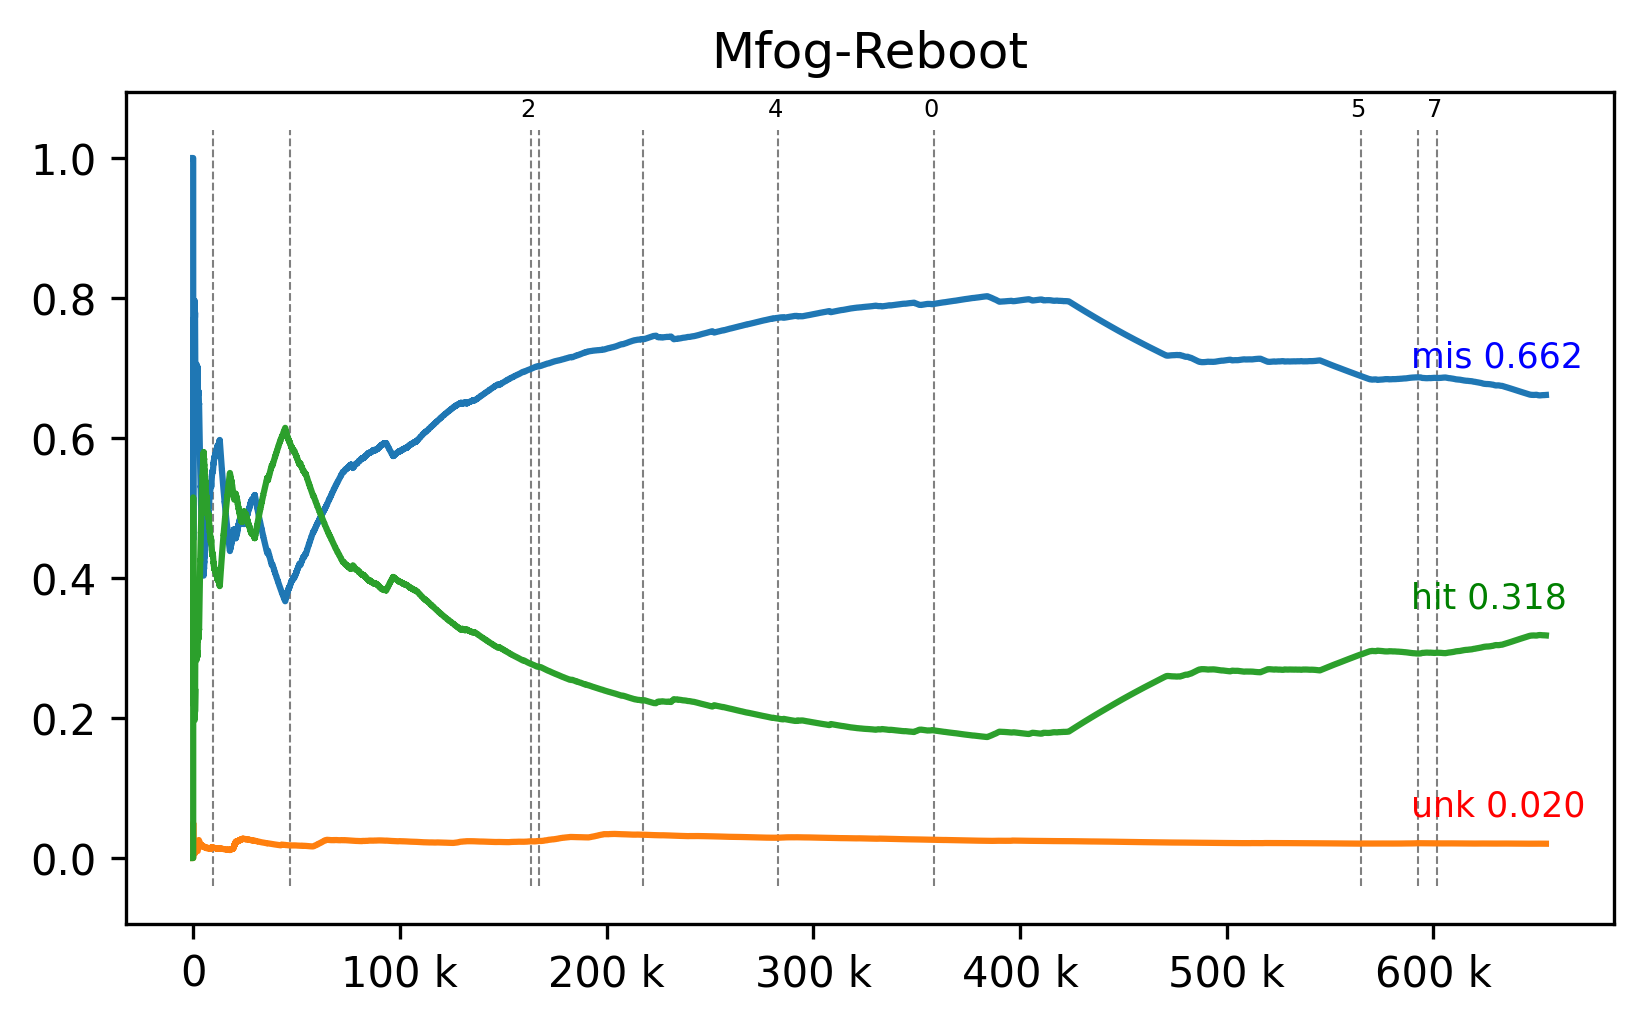
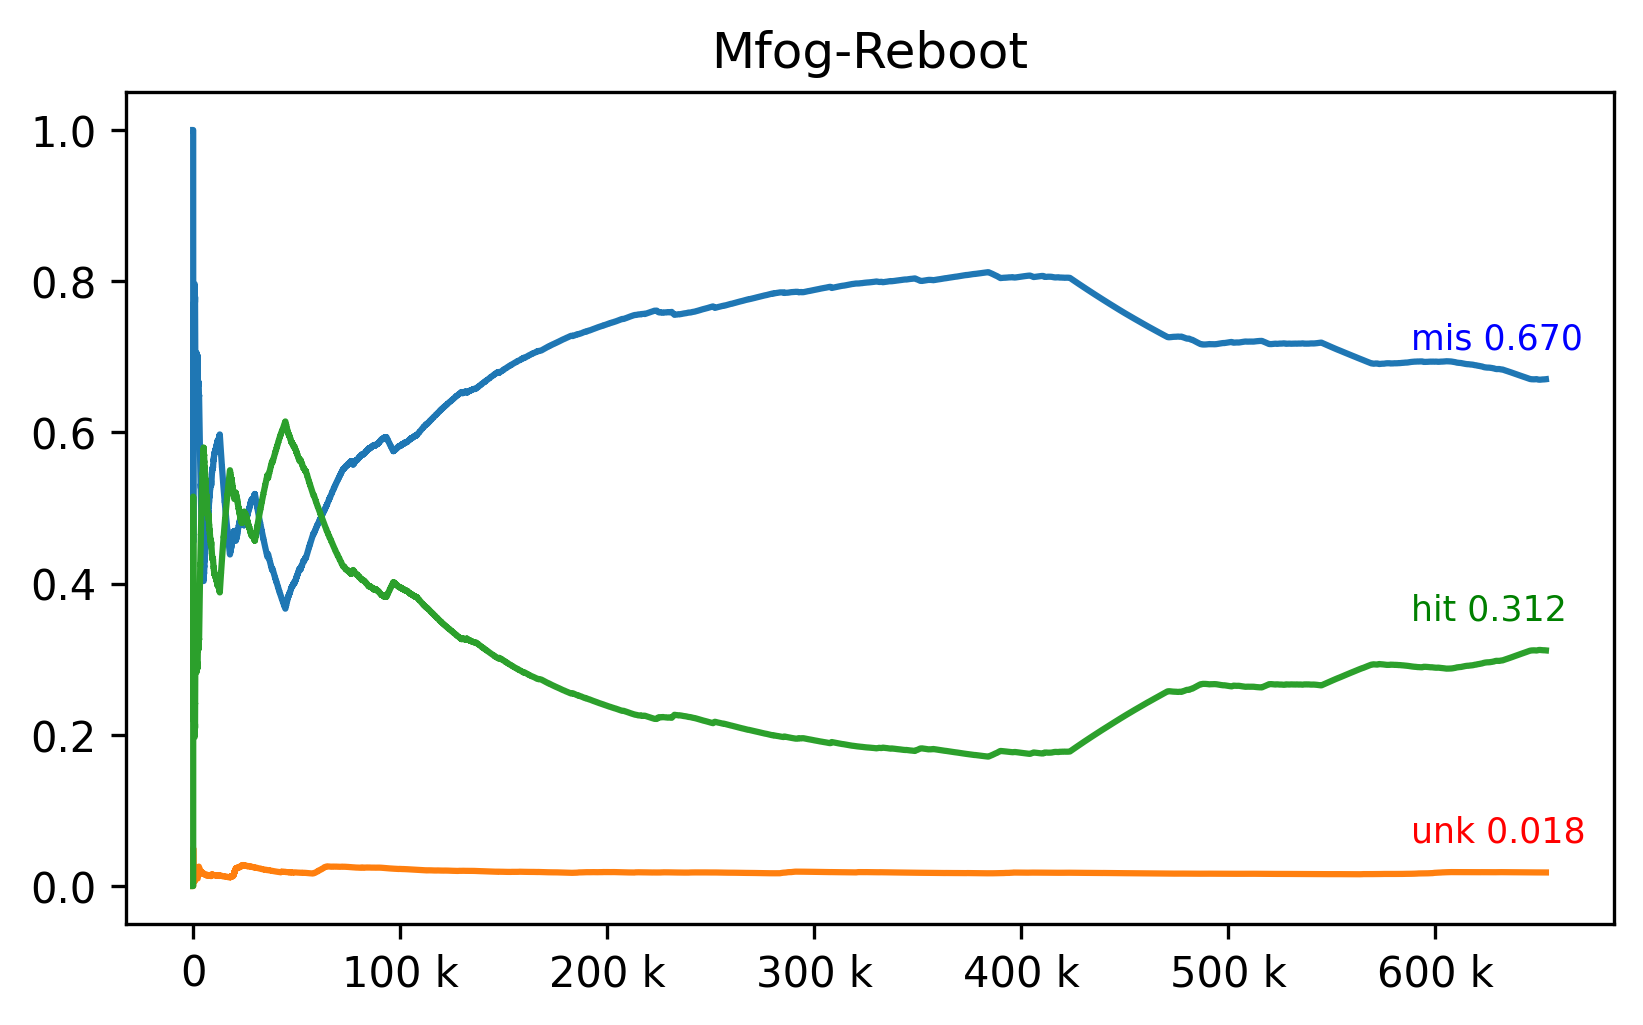
Reboot, online sans ND.

diff --git a/src/reboot/online.c b/src/reboot/online.c
@@ -1,0 +1,112 @@
+#define _GNU_SOURCE
+#include <stdio.h>
+#include <stdlib.h>
+#include <string.h>
+#include <err.h>
+#include <math.h>
+#include <time.h>
+#include <ctype.h>
+#include <mpi.h>
+
+#include "./base.h"
+
+int main(int argc, char const *argv[]) {
+    int kParam = 100, dim = 22, minExamplesPerCluster = 20;
+    double precision = 1.0e-08, radiusF = 0.10, noveltyF = 2.0;
+    //
+    kParam=100; dim=22; precision=1.0e-08; radiusF=0.25; minExamplesPerCluster=20; noveltyF=1.4;
+    // kParam=100; dim=22; precision=1.0e-08; radiusF=0.10; minExamplesPerCluster=20; noveltyF=2.0;
+    //
+    fprintf(stderr, "kParam=%d; dim=%d; precision=%le; radiusF=%le; minExamplesPerCluster=%d; noveltyF=%le\n", PARAMS);
+    Model *model = calloc(1, sizeof(Model));
+    model->size = 0;
+    model->nextLabel = '\0';
+    model->clusters = calloc(kParam, sizeof(Cluster));
+    // void minasOnline(PARAMS_ARG, Model *model) {
+    unsigned int id = 0;
+    Match match;
+    Example example;
+    example.val = calloc(dim, sizeof(double));
+    printf("#pointId,label\n");
+    // size_t unknownsMaxSize = minExamplesPerCluster * kParam;
+    // size_t noveltyDetectionTrigger = minExamplesPerCluster * kParam;
+    Example *unknowns = calloc(kParam, sizeof(Example));
+    size_t unknownsSize = 0;
+    // size_t lastNDCheck = 0;
+    int hasEmptyline = 0;
+    fprintf(stderr, "Taking test stream from stdin\n");
+    char *lineptr = NULL;
+    size_t n = 0, inputLine = 0;
+    ssize_t nread;
+    while (!feof(stdin) && hasEmptyline != 2) {
+        nread = getline(&lineptr, &n, stdin);
+        inputLine++;
+        // fprintf(stderr, "line %ld '%s'.\n", nread, lineptr);
+        // if (inputLine < 10 || (inputLine % 10 == 0 && inputLine < 100) || (inputLine % 100))
+        //     fprintf(stderr, "line #%ld %ld '%.10s' msize %d.\n",
+        //             inputLine, nread, lineptr, model->size);
+        int readCur = 0, readTot = 0;
+        if (lineptr[0] == 'C') {
+            if (model->size > 0 && model->size % kParam == 0) {
+                model->clusters = realloc(model->clusters, (model->size + kParam) * sizeof(Cluster));
+            }
+            Cluster *cl = &(model->clusters[model->size]);
+            model->size++;
+            char *labelString;
+            // line is on format "Cluster: %10u, %s, %10u, %le, %le, %le" + dim * ", %le"
+            int assigned = sscanf(
+                lineptr, "Cluster: %10u, %m[^,], %10u, %le, %le, %le%n",
+                &cl->id, &labelString, &cl->n_matches,
+                &cl->distanceAvg, &cl->distanceStdDev, &cl->radius,
+                &readCur);
+            assertMsg(assigned == 6, "Got %d assignments.", assigned);
+            readTot += readCur;
+            cl->label = fromPrintableLabel(labelString);
+            if (!isalpha(cl->label) && model->nextLabel <= cl->label) {
+                model->nextLabel = cl->label + 1;
+            }
+            free(labelString);
+            cl->center = calloc(dim, sizeof(double));
+            for (size_t d = 0; d < dim; d++) {
+                // fprintf(stderr, "readTot %d, remaining '%s'.\n", readCur, &lineptr[readTot]);
+                assert(sscanf(&lineptr[readTot], ", %le%n", &cl->center[d], &readCur));
+                readTot += readCur;
+            }
+            if (unknowns != NULL && unknownsSize > 0 && model->size >= kParam) {
+                for (size_t i = 0; i < unknownsSize; i++) {
+                    Example *ex = &unknowns[i];
+                    identify(kParam, dim, precision, radiusF, model, ex, &match);
+                    printf("%10u,%s\n", ex->id, printableLabel(match.label));
+                    free(ex->val);
+                }
+                free(unknowns);
+                unknowns = NULL;
+                fprintf(stderr, "model complete\n");
+            }
+            continue;
+        }
+        for (size_t d = 0; d < dim; d++) {
+            assert(sscanf(&lineptr[readTot], "%lf,%n", &example.val[d], &readCur));
+            readTot += readCur;
+        }
+        // ignore class
+        example.id = id;
+        id++;
+        if (unknowns != NULL && model->size < kParam) {
+            // wait until model size is at least k
+            if (unknownsSize > 0 && unknownsSize % kParam == 0) {
+                unknowns = realloc(unknowns, unknownsSize + kParam * sizeof(Example));
+            }
+            unknowns[unknownsSize] = example;
+            unknownsSize++;
+            // prepare for next value
+            example.val = calloc(dim, sizeof(double));
+            continue;
+        }
+        identify(kParam, dim, precision, radiusF, model, &example, &match);
+        printf("%10u,%s\n", example.id, printableLabel(match.label));
+    }
+    free(lineptr);
+    free(model);
+    return EXIT_SUCCESS;
+}

diff --git a/src/reboot/base.h b/src/reboot/base.h
@@ -58,6 +58,7 @@ typedef struct {
 #define UNK_LABEL '-'
 
 char *printableLabel(char label);
+char fromPrintableLabel(char *label);
 double nearestClusterVal(int dim, Cluster clusters[], size_t nClusters, double val[], Cluster **nearest);
 Cluster* kMeansInit(int kParam, int dim, Example trainingSet[], unsigned int trainingSetSize, unsigned int initalId);
 double kMeans(int kParam, int dim, double precision, Cluster* clusters, Example trainingSet[], unsigned int trainingSetSize);

diff --git a/src/reboot/base.c b/src/reboot/base.c
@@ -18,6 +18,18 @@ char *printableLabel(char label) {
     return ret;
 }
 
+char fromPrintableLabel(char *label) {
+    char ret;
+    if (isalpha(label[0]) || label[0] == '-') {
+        ret = label[0];
+    } else {
+        int l;
+        sscanf(label, "%d", &l);
+        assert(l < 255);
+        ret = l;
+    }
+    return ret;
+}
 
 double nearestClusterVal(int dim, Cluster clusters[], size_t nClusters, double val[], Cluster **nearest) {
     double minDist;
